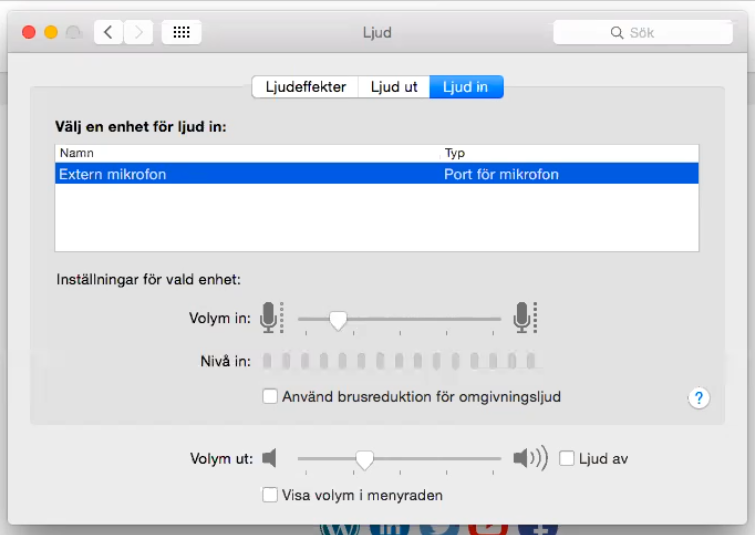
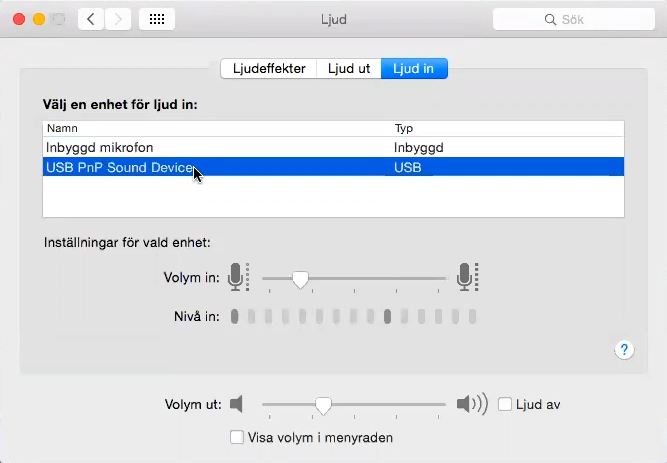
uppdatera ljudinställningar

diff --git a/inspelning.md b/inspelning.md
@@ -39,10 +39,10 @@ Mikrofon | Mikrofonsladd | USB-kontakt | Puffskydd | Hörselkåpor
 4. Öppna datorns inställningar (klicka på äpplet längst upp till vänster och välj **Systeminställningar**)
 5. Gå till **Ljud**-inställningar
 6. Gå till **Ljud in**-fliken
-7. Säkerställ att det står *Extern mikrofon* i listan
+7. Säkerställ att det står *USB PnP Sound Device* i listan
 8. Ställ in volymen så att handtaget är ungefär som på bilden nedan
-9. Klicka ur *Använd brusreduktion för omgivningsljud*
-10. Gå till **Ljud ut**-fliken
+9. Gå till **Ljud ut**-fliken
+10. Säkerställ att det står *USB PnP Sound Device* i listan
 11. Sänk volymen så att du precis hör oss andra
 
 ![](images/inspelning/ljudinstallningar.png)
